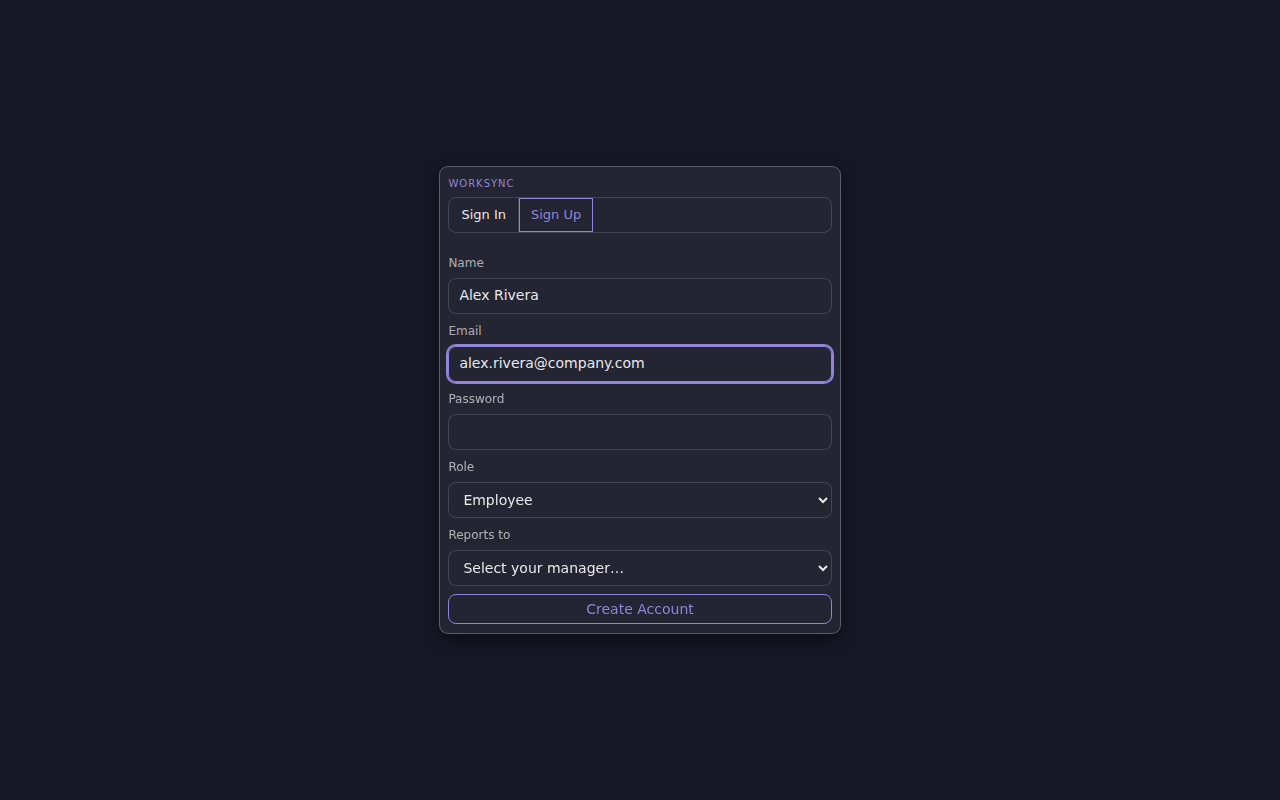
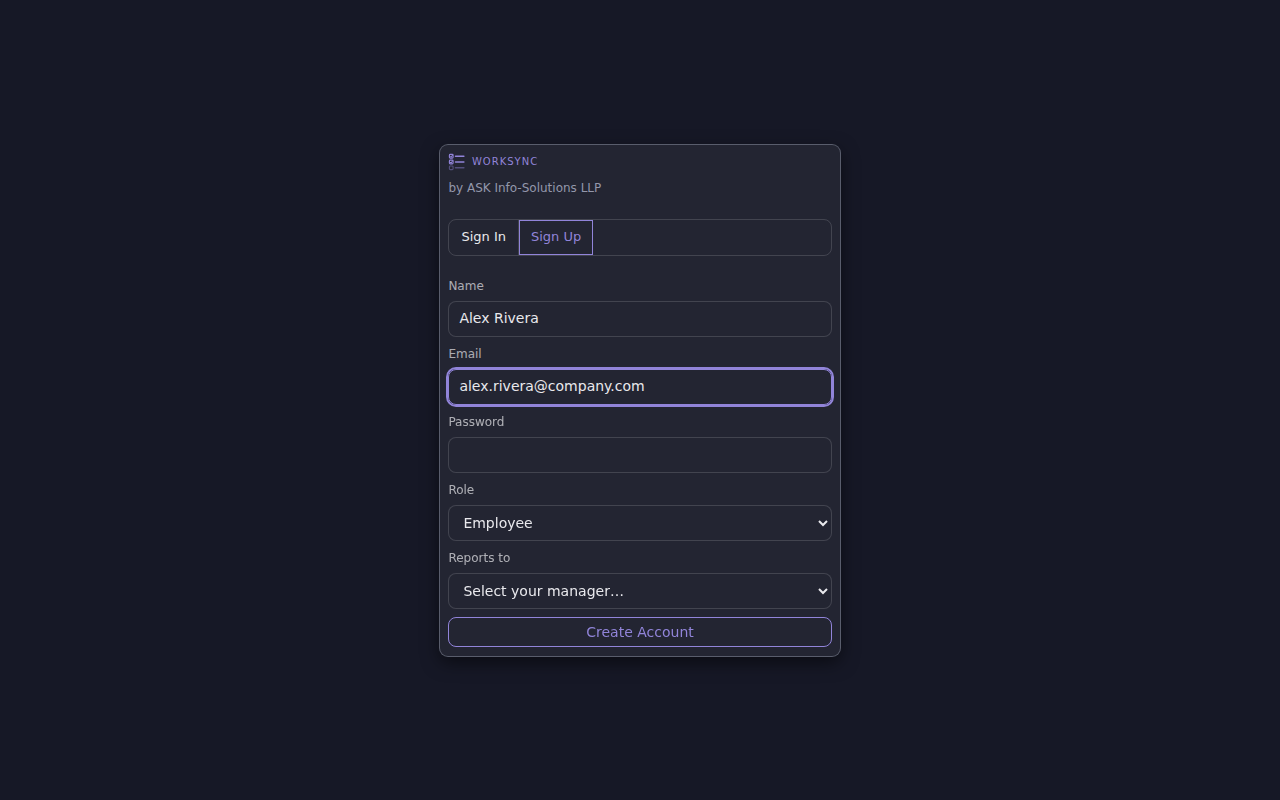
Refresh Help manual screenshots for post-Phase-9 UI
PR #12 auto-merged before this correction could land in the same PR
(its branch head was already an ancestor of Phase 9's branch, so
GitHub marked it merged the moment #13 did). This re-runs
scripts/capture-help-screenshots.mjs so all 11 screenshots show the
checklist icon, the ASK Info-Solutions LLP branding, and the Admin
screen's new Projects card. Screenshots only, no code changes.

Claude-Session: https://claude.ai/code/session_01VSBZ8jZvUfuKUde77wgQ8t

Changed region(s): [[0.3438, 0.1875, 0.6562, 0.5312], [0.3438, 0.5625, 0.6562, 0.8125], [0.625, 0.625, 0.6562, 0.6562]]

diff --git a/TEST_REPORT.md b/TEST_REPORT.md
@@ -21,7 +21,11 @@ Adding a third `Promise.all` member (`fetchProjects`) to Admin's `loadData` mean
 ### Known items carried forward (not blockers)
 
 - Carried from Phase 0-8: `npm audit` dev-tooling advisories (deferred, breaking Vite major bump); `.lighthouserc.json` doesn't audit `/help`.
-- The Help manual's Admin screenshot (`public/help/screenshots/09-admin-user-management.png`) predates the new Projects card and won't show it until `scripts/capture-help-screenshots.mjs` is re-run — cosmetic staleness, not a functional gap (the manual's text doesn't claim to cover it either).
+- ~~The Help manual's Admin screenshot predates the new Projects card~~ — fixed; see "Help Manual correction" below.
+
+## Help Manual correction (post-Phase 9)
+
+All 11 screenshots in `public/help/screenshots/` regenerated via `scripts/capture-help-screenshots.mjs` against the post-Phase-9 UI. Verified visually: `01-login-signin.png` shows the checklist logo + "by ASK Info-Solutions LLP"; `09-admin-user-management.png` shows the sidebar's new logo/branding and the Projects card populated with fixture projects. No code changed — `npm run lint/typecheck/test` unaffected (246/246 unit tests still pass); `e2e/phase8.spec.js` (5/5) re-run to confirm every screenshot still loads with no broken images; `npm run build` succeeds.
 
 ## Help Manual
 

diff --git a/CHANGELOG.md b/CHANGELOG.md
@@ -1,5 +1,9 @@
 # Changelog
 
+## Help Manual correction (post-Phase 9)
+
+PR #12 (the Help manual) merged automatically as a side effect of merging Phase 9's PR #13 — its branch head commit was already an ancestor of Phase 9's branch, so GitHub detected it as merged the moment #13 landed, before the planned screenshot refresh could go in as part of that same PR. This is that refresh, as a fast follow-up: re-ran `scripts/capture-help-screenshots.mjs` against the post-Phase-9 UI so all 11 screenshots in `public/help/screenshots/` show the checklist icon, the "ASK Info-Solutions LLP" branding, and (for the Admin screenshots) the new Projects card, instead of the pre-Phase-9 look. No code changes — screenshots only.
+
 ## Phase 9 — Project Independence, Task Deletion, Brand Refresh
 
 Four direct user requests, not build-brief phase items: managers creating projects without going through the New Task dialog, managers deleting their own or their reports' tasks, a checklist app icon, and the company name surfaced in the app.
